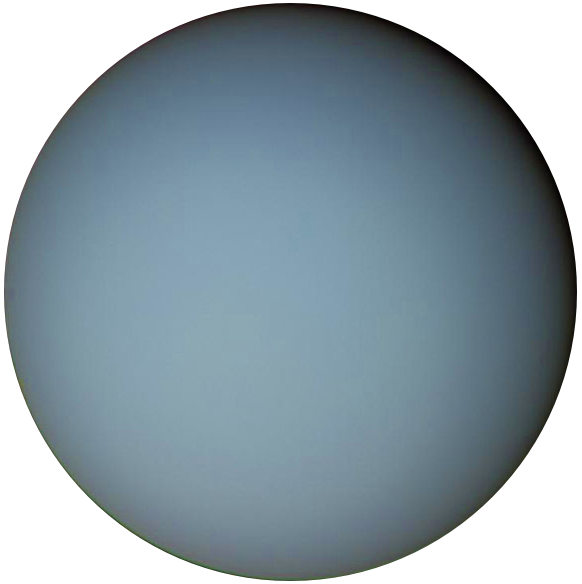
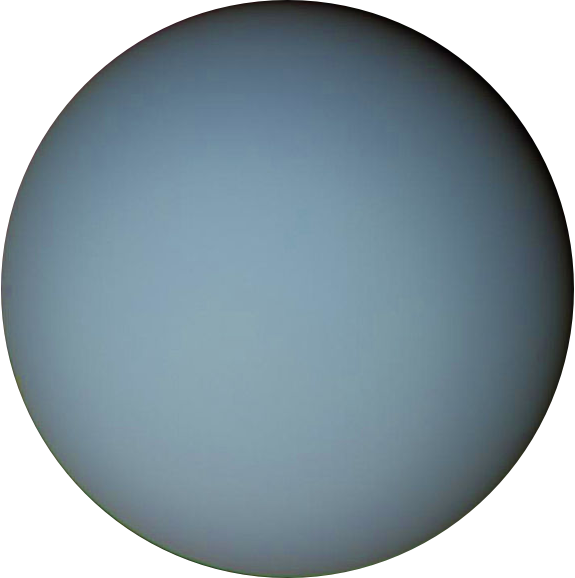
resized planets

diff --git a/websitestyle.css b/websitestyle.css
@@ -1,7 +1,7 @@
 body {background-color: #577E8F; color: Gainsboro;}
 p {font-family: "Times New Roman", Times, serif; font-size: 120%; word-wrap: break-word; line-height: 140%}
 h1 {font-family: roman; font-size: 5vw; text-align: center; line-height: 5%;}
-h2 {font-family: roman; font-size: 160%;}
+h2 {font-family: roman; font-size: 160%; padding-top: 0px; padding-right: 0px; padding-bottom: 10px; padding-left: 0px; margin: 0px;}
 h3 {color: black; font-family: roman; font-size: 140%;}
 h4 {font-family: helvetica; font-size: 120%;}
 ul {font-family: "Times New Roman", Times, serif; font-size: 120%;}
@@ -16,10 +16,10 @@ p.researchpar{color:black; height:80%;}
 img.researchimg{float:left;max-width:45%;max-height:100%;}
 * {box-sizing: border-box;}
 .column {float: left; padding: 20px;}
+.columntest {float: left; padding: 0px;}
+.middletest {width: 50%}
 .left {width: 25%;}
-.middle {margin:4px, 4x;
-                padding:20px;
-                width: 50%;
+.middle {width: 100%;
                 height: 750px;
                 overflow-x: hidden;
                 overflow-y: auto;

diff --git a/index.html b/index.html
@@ -75,10 +75,9 @@
 			Twitter: <b><a href="https://twitter.com/geoJackSheehan" target="_blank">@geoJackSheehan</a></b>
 		</address>
 			</div>
-			<div class="column middle">
+			<div class="column middletest">
 			<h2>Home</h2>
-			<hr>
-			<br>
+			<div class="columntest middle">
 			<div class="researchbox" style=height:60ch;">
 				<h3>Title of a Post</h3>
 				<p class="researchpar">
@@ -113,6 +112,7 @@
 					Hi this is just a test. 
 					<br>
 					In Quis laudantium aut praesentium provident qui cumque fugit id soluta tenetur et cupiditate dolorum non rerum consequatur. Aut autem sed labore magnam qui mollitia error qui error magni. Vel nesciunt ducimus est modi labore et quae nostrum et accusamus unde et assumenda quasi? Qui excepturi voluptatem et minima dolor est sunt corporis eos placeat galisum eum architecto excepturi eum alias illo.
+			</div>
 			</div>
 			</div>
 			<div class="column right">
